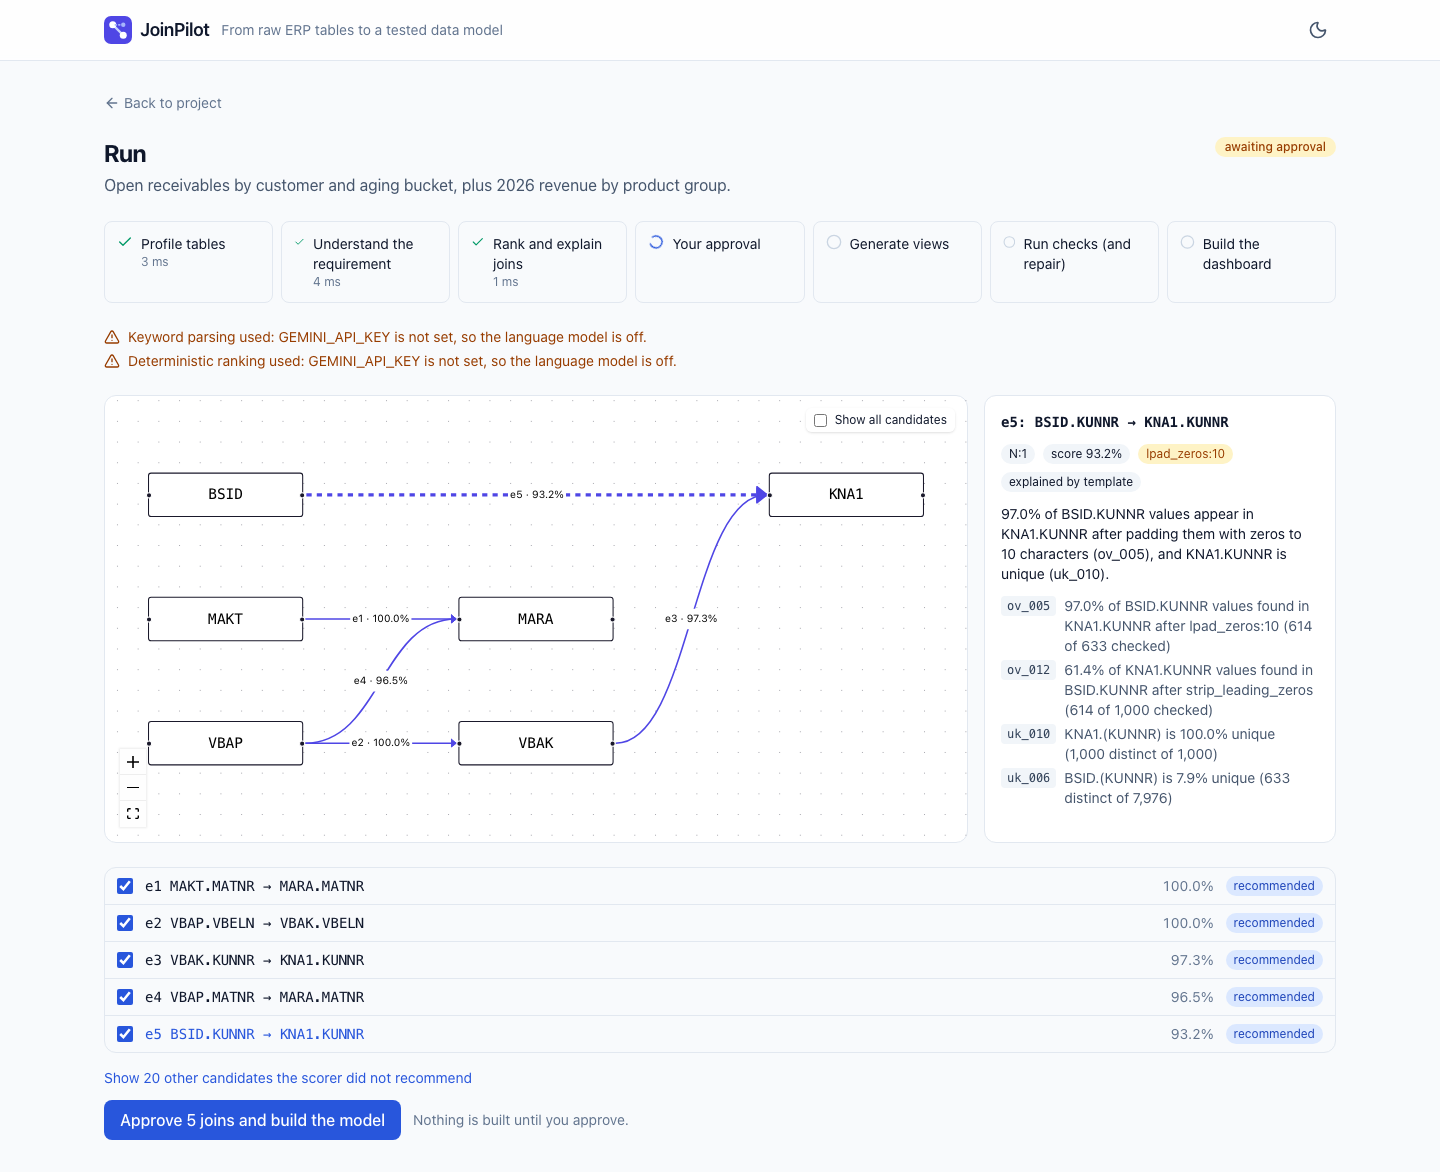
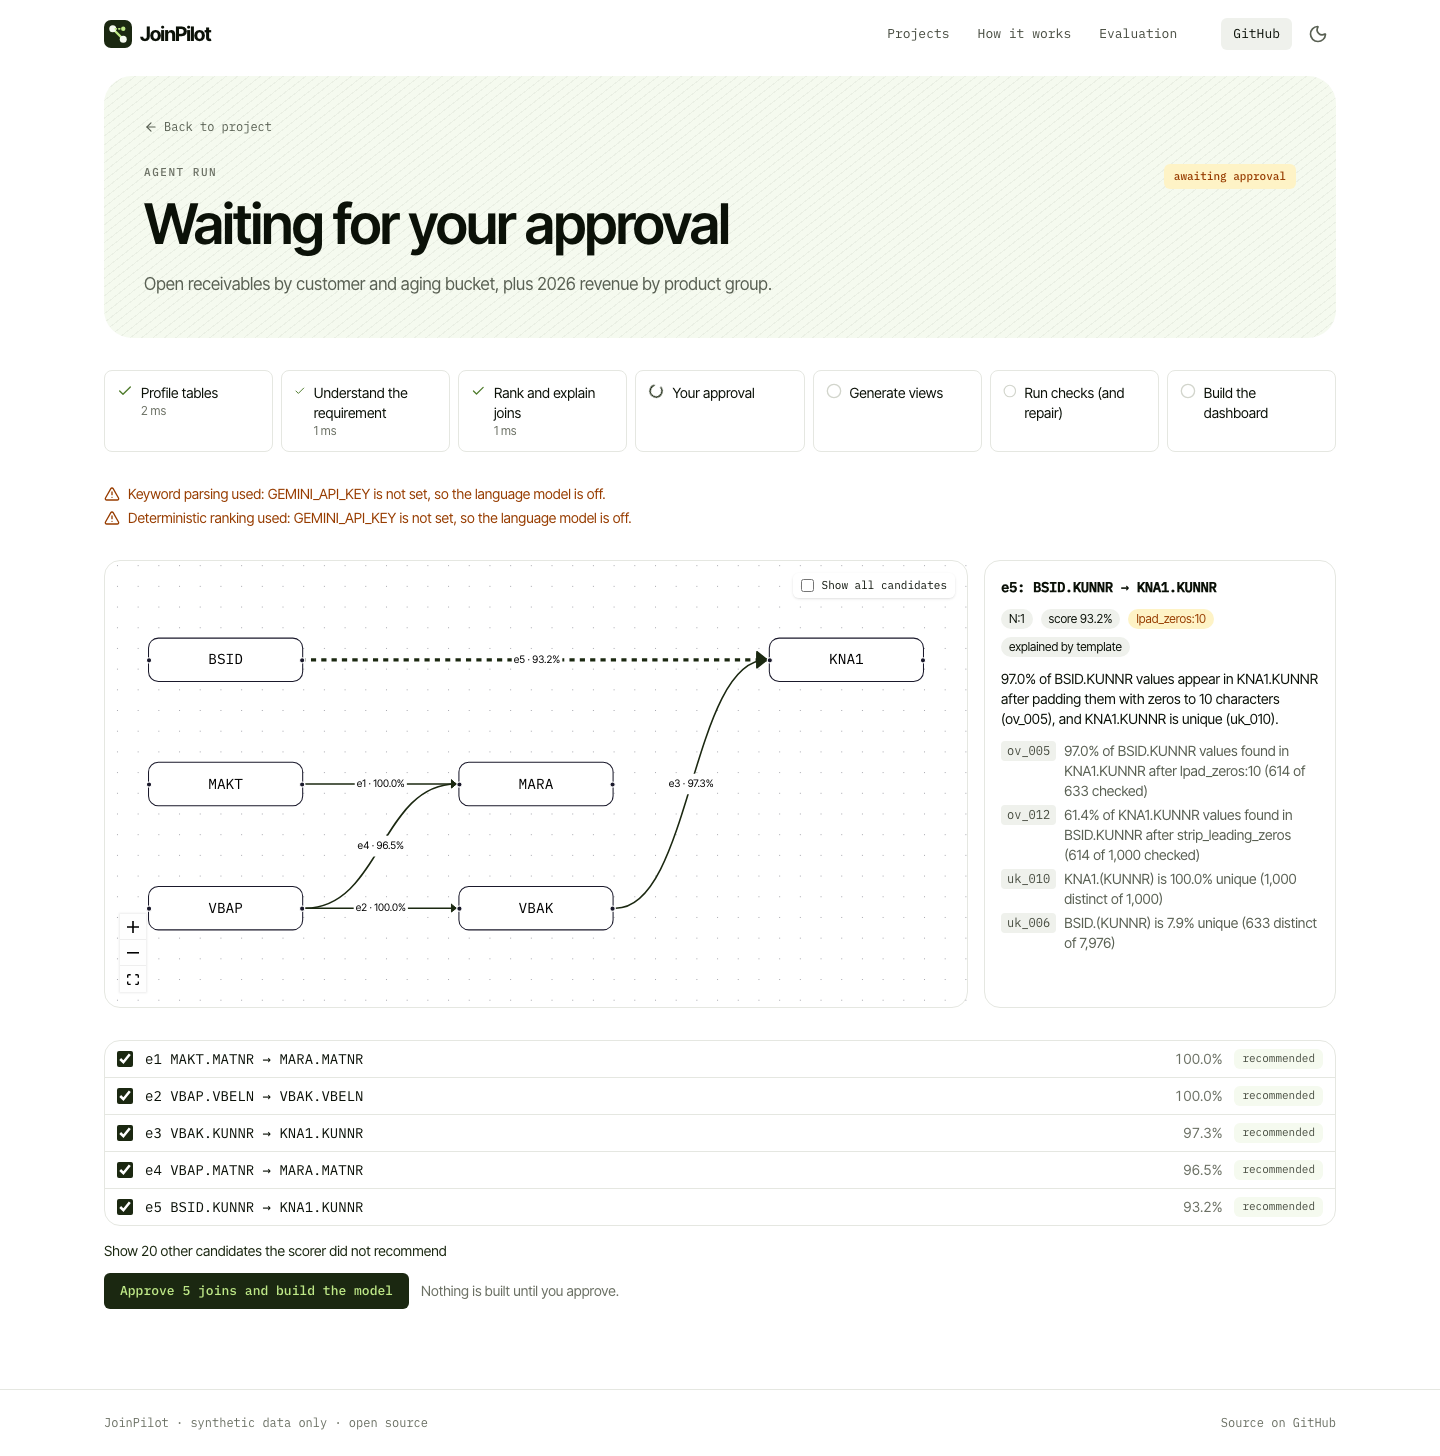
docs: refresh console screenshots after the redesign
Recaptures the README screenshots from the redesigned console and adds
the new home page to them. The screenshot script now scrolls to the top
before each full-page capture, so the sticky header no longer lands in
the middle of an image.

Task: M11.3e

diff --git a/web/e2e/screenshots.spec.ts b/web/e2e/screenshots.spec.ts
@@ -1,10 +1,17 @@
-import { expect, test } from '@playwright/test'
+import { type Page, expect, test } from '@playwright/test'
 
 // Captures README screenshots from the real app: SCREENSHOTS=1 npx playwright test screenshots
 test.skip(!process.env.SCREENSHOTS, 'only when refreshing README screenshots')
 test.use({ viewport: { width: 1440, height: 900 }, colorScheme: 'light' })
 
 const out = (name: string) => `../docs/images/${name}.png`
+
+/** Full-page capture from the top, so the sticky header sits where it belongs. */
+async function shot(page: Page, name: string) {
+  await page.evaluate('window.scrollTo(0, 0)')
+  await page.waitForTimeout(200)
+  await page.screenshot({ path: out(name), fullPage: true })
+}
 
 test('README screenshots', async ({ page }) => {
   await page.goto('/')
@@ -16,24 +23,24 @@ test('README screenshots', async ({ page }) => {
   await page.getByLabel('Find columns by business words').fill('customer name')
   await page.getByRole('button', { name: /search/i }).click()
   await expect(page.getByText('KNA1.NAME1').first()).toBeVisible()
-  await page.screenshot({ path: out('profile'), fullPage: true })
+  await shot(page, 'profile')
 
   await page.getByRole('tab', { name: 'Runs' }).click()
   await page.getByRole('button', { name: /start run/i }).click()
   await expect(page.getByRole('button', { name: /approve 5 joins/i })).toBeVisible({ timeout: 30_000 })
   await page.getByRole('list', { name: 'Proposed joins' }).getByRole('button', { name: /BSID\.KUNNR → KNA1\.KUNNR/ }).click()
   await page.waitForTimeout(500)
-  await page.screenshot({ path: out('approval'), fullPage: true })
+  await shot(page, 'approval')
 
   await page.getByRole('button', { name: /approve 5 joins/i }).click()
   await expect(page.getByRole('region', { name: 'Check results' })).toBeVisible({ timeout: 30_000 })
   await page.getByRole('region', { name: 'Generated SQL' }).scrollIntoViewIfNeeded()
-  await page.screenshot({ path: out('results'), fullPage: true })
+  await shot(page, 'results')
 
   await page.getByRole('link', { name: /open the kpi dashboard/i }).click()
   await expect(page.locator('.recharts-bar-rectangle').first()).toBeVisible()
   await page.waitForTimeout(800)
-  await page.screenshot({ path: out('dashboard'), fullPage: true })
+  await shot(page, 'dashboard')
 
   await page.goto('/')
   await page.screenshot({ path: out('projects') })

diff --git a/docs/PLAN.md b/docs/PLAN.md
@@ -136,7 +136,7 @@ Done when: JoinPilot runs at a public URL with CI building Docker images and run
 - [x] M11.3b `feat(web): redesign the home page with a hero and features`
 - [x] M11.3c `feat(web): restyle the project and run pages`
 - [x] M11.3d `feat(web): recolour charts, join graph and status badges`
-- [ ] M11.3e `docs: refresh console screenshots after the redesign`
+- [x] M11.3e `docs: refresh console screenshots after the redesign`
 - [ ] M11.4 `build(infra): deploy database, Redis, API and web`
 - [ ] M11.5 `docs: add deployment guide and live demo link`
 

diff --git a/README.md b/README.md
@@ -24,6 +24,10 @@ Analysts spend days studying cryptic ERP tables, guessing join keys, writing vie
 
 ## Console
 
+**Home.** What JoinPilot does, with the measured results from the evaluation, then your projects.
+
+![JoinPilot home page](docs/images/projects.png)
+
 **Profile.** Every column's type, nulls, distinct values and uniqueness, the value overlaps between tables, and a glossary search that finds columns by business words.
 
 ![Profile explorer with glossary search](docs/images/profile.png)
